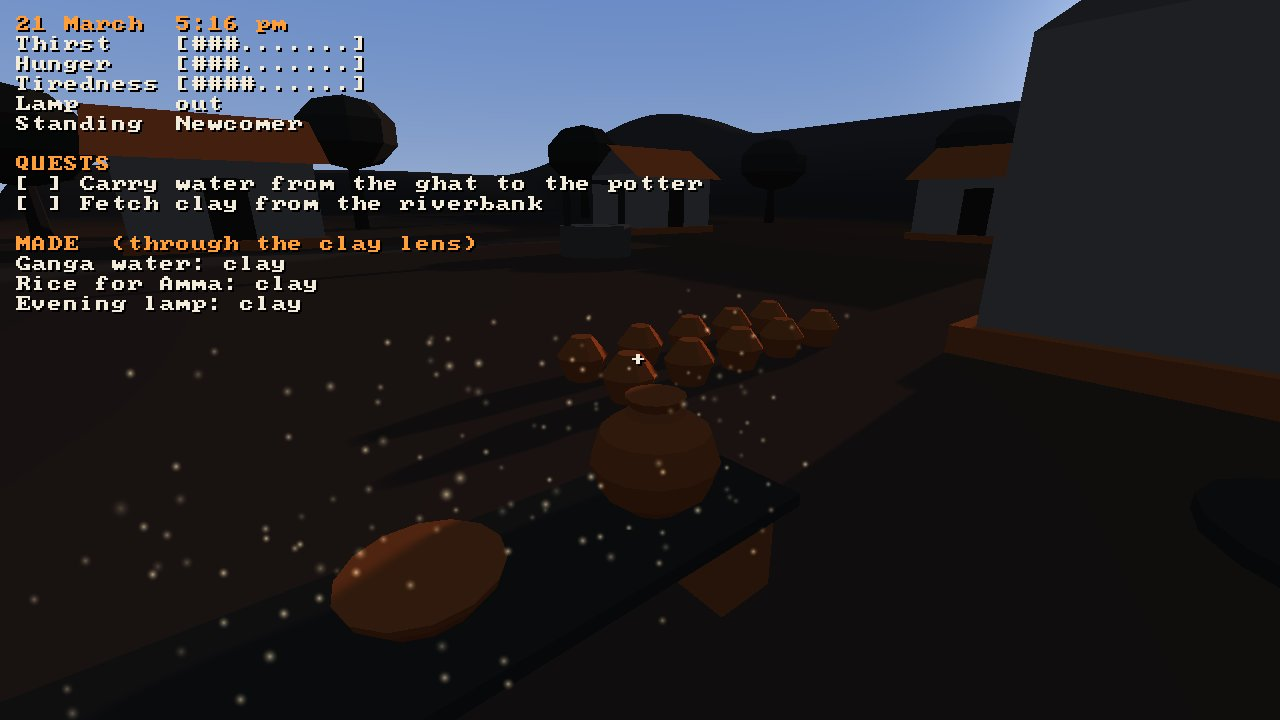
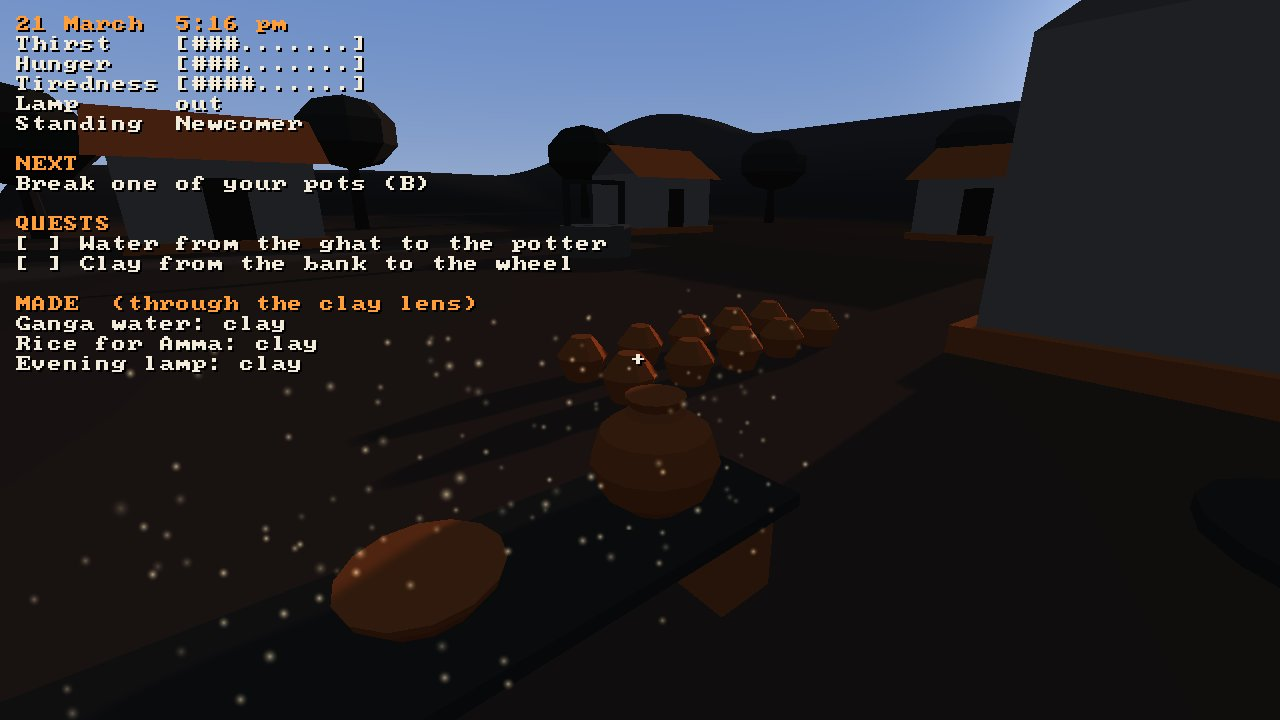
docs: README screenshots retaken after the playtest pass
The README's in-game screenshots showed the HUD and the night as they
were before the playtest pass: no NEXT line, no names over places, no
door lamps, and the after-mode's old "V steps back" line. All twelve were
retaken from the headless tour at 1280 x 720, and their descriptions now
say what the pictures show.

This change was drafted by Claude on behalf of Daniel Stephenson.

Claude-Session: https://claude.ai/code/session_01ShB2ag2emWKAWeDJ9dxeoy

Changed region(s): [[0.0, 0.2139, 0.5625, 0.5194]]

diff --git a/README.md b/README.md
@@ -61,7 +61,7 @@ codex is open.
 
 | The well, at a quarter to five | The ghat steps down to the river |
 |---|---|
-| ![First person by the village well: lime-washed houses with tiled roofs, the potter's drying pots, the HUD with needs and quests](docs/images/m1-well.jpg) | ![Stone ghat steps leading down to the river at late afternoon](docs/images/m1-ghat.jpg) |
+| ![First person by the village well: lime-washed houses with tiled roofs, the potter's drying pots, the HUD with needs, the NEXT line and quests](docs/images/m1-well.jpg) | ![Stone ghat steps leading down to the river at late afternoon](docs/images/m1-ghat.jpg) |
 
 | The village from the ghat | Sunset over the river, just after six |
 |---|---|
@@ -69,7 +69,7 @@ codex is open.
 
 | Lamplight on a snake at half past seven | It was a rope |
 |---|---|
-| ![At night by lamplight, a dark snake coiled on the path with its head raised; the HUD shows the fear meter high](docs/images/m2-lamp-on-the-snake.jpg) | ![The same spot: a straw-coloured rope lies coiled on the path where the snake was](docs/images/m2-rope.jpg) |
+| ![At night by lamplight, a dark snake coiled on the path with its head raised, lamps lit by the village doors behind; the HUD shows the fear meter high and NEXT reads "Walk back to the village along the path"](docs/images/m2-lamp-on-the-snake.jpg) | ![The same spot: a straw-coloured rope lies coiled on the path where the snake was](docs/images/m2-rope.jpg) |
 
 | Throwing a water jar | Three pots, three names |
 |---|---|
@@ -85,7 +85,7 @@ codex is open.
 
 | The next morning | Watching the avatar go about its day |
 |---|---|
-| ![Waking at 6:35 on 22 March outside your house in the dawn light; the quest log is open again and the HUD reads "Living, V steps back to watch", with no Standing line](docs/images/m5-morning.jpg) | ![From behind and above, the avatar in white and brown walks toward the potter's yard; the HUD reads "Watching, V steps back in"](docs/images/m5-watching.jpg) |
+| ![Waking at 6:35 on 22 March outside your house in the dawn light; the potter's house is named and the shrine's saffron pennant shows over the roofs; NEXT reads "Nothing more is asked of you", the quest log is open again, the HUD reads "Living, step back and watch (V)", and there is no Standing line](docs/images/m5-morning.jpg) | ![From behind and above, the avatar in white and brown walks toward the potter's yard; the HUD reads "Watching, step back in (V)"](docs/images/m5-watching.jpg) |
 
 *Frames from the game's own headless tour (`atman --headless --tour --frames DIR`).*
 
